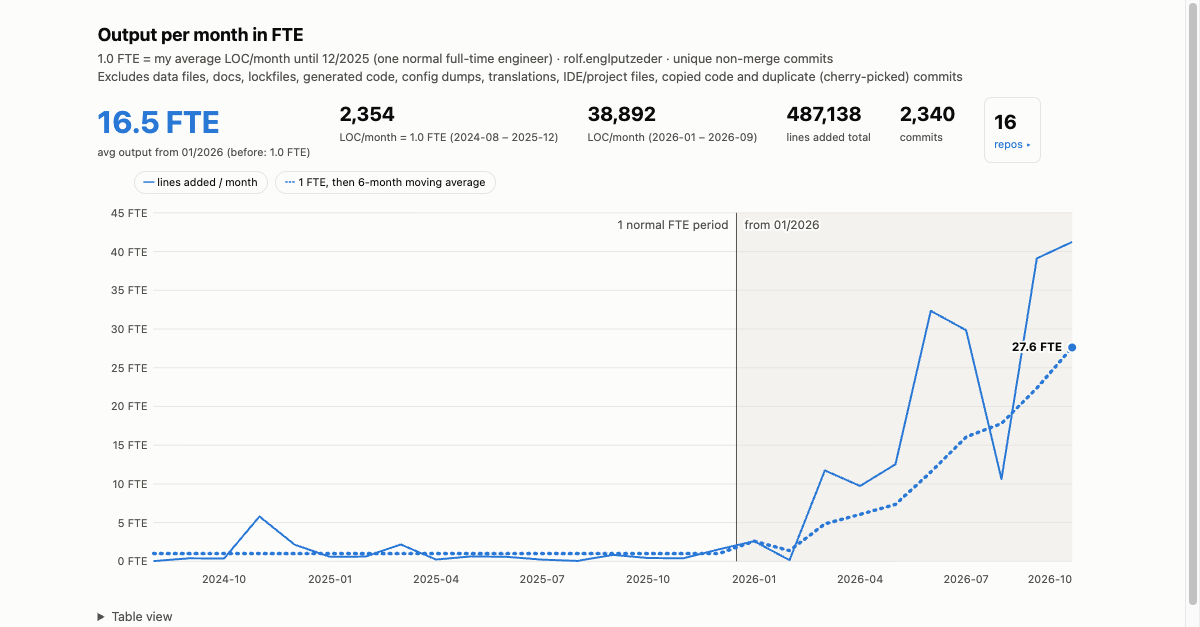
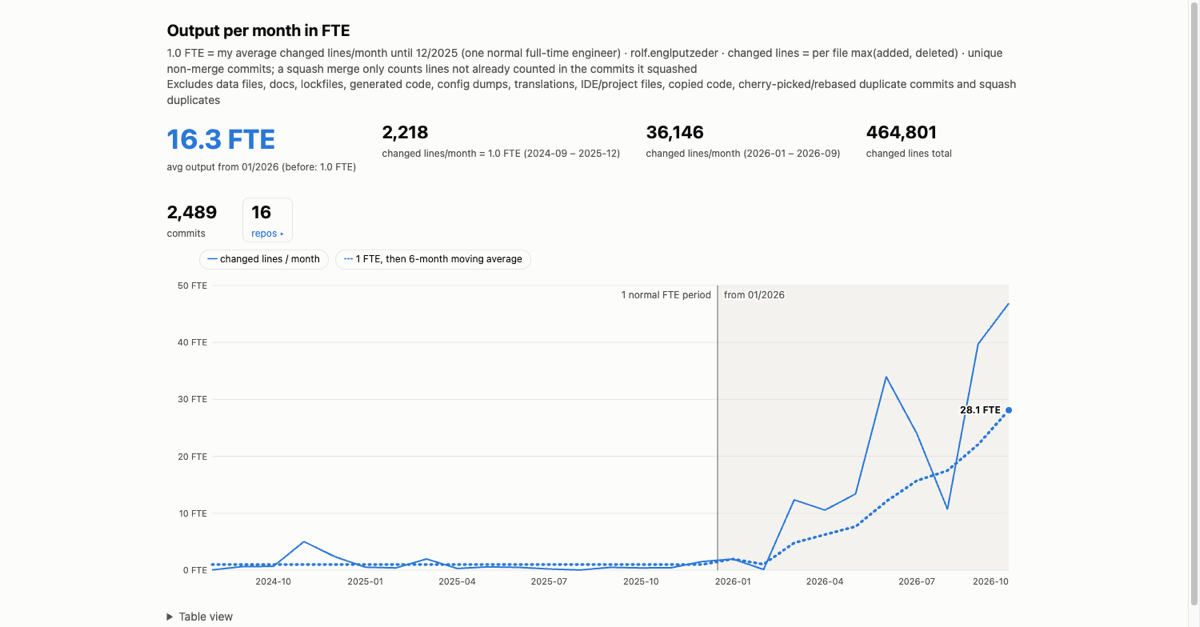
Fix squash/cherry-pick double counting, responsive layout
- squash merges only count lines not already counted in squashed commits
- cherry-pick dedup by exact author timestamp (same-day same-subject commits were dropped)
- baseline excludes partial first month
- mobile-friendly chart and layout; refreshed preview image

diff --git a/index.html b/index.html
@@ -3,17 +3,28 @@
 <style>
 :root{--surface:#fcfcfb;--ink:#0b0b0b;--ink2:#52514e;--grid:#e6e5e1;--band:#f3f2ef;--s1:#2a78d6;--tip:#fff}
 @media (prefers-color-scheme:dark){:root{--surface:#1a1a19;--ink:#f0efec;--ink2:#c3c2b7;--grid:#383835;--band:#232322;--s1:#3987e5;--tip:#262624}}
-body{margin:0;background:var(--surface);color:var(--ink);font:14px/1.4 -apple-system,system-ui,sans-serif}
+*{box-sizing:border-box}
+body{margin:0;background:var(--surface);color:var(--ink);font:14px/1.4 -apple-system,system-ui,sans-serif;-webkit-text-size-adjust:100%}
 main{max-width:1100px;margin:0 auto;padding:24px 16px}
 h1{font-size:20px;margin:0 0 4px}.sub{color:var(--ink2);margin:0 0 16px}
 .stats{display:flex;gap:32px;flex-wrap:wrap;margin-bottom:12px}.stats b{display:block;font-size:22px}.stats .hero b{font-size:34px;color:var(--s1)}.stats span{color:var(--ink2);font-size:12px}
 .wrap{position:relative}svg{width:100%;height:auto;display:block}
 .axis text{fill:var(--ink2);font-size:11px}.gl{stroke:var(--grid)}
 .lbl{fill:var(--ink);font-size:12px;paint-order:stroke;stroke:var(--surface);stroke-width:4px}
+#hit{touch-action:pan-y;cursor:crosshair}
 #tip{position:absolute;pointer-events:none;background:var(--tip);border:1px solid var(--grid);border-radius:6px;padding:6px 8px;font-size:12px;display:none;max-width:280px;box-shadow:0 2px 8px #0002}
 .legend{display:flex;gap:8px;flex-wrap:wrap;margin:4px 0 4px 40px}.legend button{font:inherit;font-size:12px;color:var(--ink);background:none;border:1px solid var(--grid);border-radius:999px;padding:3px 10px;cursor:pointer}.legend button span{color:var(--s1);font-weight:700}.legend button[aria-pressed=false]{opacity:.4;text-decoration:line-through}
-.stat{font:inherit;color:inherit;text-align:left;background:none;border:1px solid var(--grid);border-radius:8px;padding:2px 10px;margin:-3px 0;cursor:pointer}.stat:hover{border-color:var(--s1)}.stats .stat span{color:var(--s1)}.rt{border-collapse:collapse;font-size:13px}.rt td,.rt th{padding:3px 10px;text-align:right;border-bottom:1px solid var(--grid)}
-details{margin-top:16px;color:var(--ink2)}table{border-collapse:collapse;font-size:12px}td,th{padding:2px 10px;text-align:right}
+.stat{font:inherit;color:inherit;text-align:left;background:none;border:1px solid var(--grid);border-radius:8px;padding:2px 10px;margin:-3px 0;cursor:pointer}.stat:hover{border-color:var(--s1)}.stats .stat span{color:var(--s1)}
+.scroll{overflow-x:auto;-webkit-overflow-scrolling:touch}
+.rt{border-collapse:collapse;font-size:13px}.rt td,.rt th{padding:3px 10px;text-align:right;border-bottom:1px solid var(--grid);white-space:nowrap}.rt .bar{width:160px}
+details{margin-top:16px;color:var(--ink2)}summary{cursor:pointer;padding:4px 0}table{border-collapse:collapse;font-size:12px}td,th{padding:2px 10px;text-align:right;white-space:nowrap}
+@media (max-width:600px){
+main{padding:16px 16px 32px}h1{font-size:18px}.sub{font-size:12px}
+.stats{display:grid;grid-template-columns:1fr 1fr;gap:12px 16px}.stats .hero{grid-column:1/-1}.stats b{font-size:18px}.stats .hero b{font-size:30px}.stats .stat{margin:0;padding:6px 10px}
+.legend{margin:8px 0}.legend button{padding:6px 12px}
+.rt{font-size:12px}.rt td,.rt th{padding:4px 6px}.rt .bar{width:60px}
+td,th{padding:4px 6px}
+}
 </style><meta property="og:title" content="Output per month in FTE">
 <meta property="og:description" content="Since 01/2026 my LOC output increased significantly">
 <meta property="og:type" content="website">
@@ -24,44 +35,55 @@ details{margin-top:16px;color:var(--ink2)}table{border-collapse:collapse;font-si
 <meta name="twitter:card" content="summary_large_image">
 </head><body><main>
 <h1>Output per month in FTE</h1>
-<p class="sub">1.0 FTE = my average LOC/month until 12/2025 (one normal full-time engineer) · rolf.englputzeder · unique non-merge commits<br>Excludes data files, docs, lockfiles, generated code, config dumps, translations, IDE/project files, copied code and duplicate (cherry-picked) commits</p>
+<p class="sub">1.0 FTE = my average changed lines/month until 12/2025 (one normal full-time engineer) · rolf.englputzeder · changed lines = per file max(added, deleted) · unique non-merge commits; a squash merge only counts lines not already counted in the commits it squashed<br>Excludes data files, docs, lockfiles, generated code, config dumps, translations, IDE/project files, copied code, cherry-picked/rebased duplicate commits and squash duplicates</p>
 <div class="stats" id="stats"></div>
-<div class="legend" id="lg"><button data-s="sX" aria-pressed="true"><span>━</span> lines added / month</button><button data-s="sMA" aria-pressed="true"><span>┅</span> 1 FTE, then 6-month moving average</button></div>
-<div class="wrap"><svg id="c" viewBox="0 0 1000 400" role="img" aria-label="Monthly lines added as multiple of FTE baseline, before and after January 2026"></svg><div id="tip"></div></div>
-<div id="rp" hidden><h2 style="font-size:15px;margin:16px 0 6px">Repos</h2><table id="rt" class="rt"><tr><th style="text-align:left">Repo</th><th>Lines added</th><th></th><th>Commits</th><th>Active</th></tr></table></div>
-<details><summary>Table view</summary><table id="t"><tr><th>Month</th><th>Added</th><th>FTE</th><th>Trend FTE</th><th>Deleted</th><th>Commits</th><th>Repos</th></tr></table></details>
+<div class="legend" id="lg"><button data-s="sX" aria-pressed="true"><span>━</span> changed lines / month</button><button data-s="sMA" aria-pressed="true"><span>┅</span> 1 FTE, then 6-month moving average</button></div>
+<div class="wrap"><svg id="c" role="img" aria-label="Monthly changed lines as multiple of FTE baseline, before and after January 2026"></svg><div id="tip"></div></div>
+<div id="rp" hidden><h2 style="font-size:15px;margin:16px 0 6px">Repos</h2><div class="scroll"><table id="rt" class="rt"><tr><th style="text-align:left">Repo</th><th>Changed lines</th><th></th><th>Commits</th><th>Active</th></tr></table></div></div>
+<details><summary>Table view</summary><div class="scroll"><table id="t"><tr><th>Month</th><th>Changed</th><th>FTE</th><th>Trend FTE</th><th>Deleted</th><th>Commits</th><th>Repos</th></tr></table></div></details>
 </main><script>
-const D=[{"m":"2024-08","a":68,"d":277,"c":2,"r":["Repo A"]},{"m":"2024-09","a":907,"d":1618,"c":27,"r":["Repo A"]},{"m":"2024-10","a":866,"d":677,"c":19,"r":["Repo A"]},{"m":"2024-11","a":13635,"d":68922,"c":33,"r":["Repo A"]},{"m":"2024-12","a":5035,"d":5988,"c":30,"r":["Repo A"]},{"m":"2025-01","a":1344,"d":2745,"c":29,"r":["Repo A"]},{"m":"2025-02","a":1433,"d":857,"c":18,"r":["Repo A"]},{"m":"2025-03","a":5120,"d":2487,"c":66,"r":["Repo E","Repo A"]},{"m":"2025-04","a":544,"d":660,"c":34,"r":["Repo A"]},{"m":"2025-05","a":1520,"d":719,"c":27,"r":["Repo A"]},{"m":"2025-06","a":1369,"d":975,"c":14,"r":["Repo A"]},{"m":"2025-07","a":520,"d":425,"c":24,"r":["Repo A"]},{"m":"2025-08","a":133,"d":75,"c":8,"r":["Repo I","Repo A"]},{"m":"2025-09","a":1961,"d":1295,"c":31,"r":["Repo A"]},{"m":"2025-10","a":991,"d":574,"c":16,"r":["Repo I","Repo A"]},{"m":"2025-11","a":940,"d":330,"c":14,"r":["Repo I","Repo A"]},{"m":"2025-12","a":3639,"d":2670,"c":58,"r":["Repo I","Repo A"]},{"m":"2026-01","a":6117,"d":1871,"c":34,"r":["Repo I","Repo A"]},{"m":"2026-02","a":375,"d":181,"c":19,"r":["Repo I","Repo A"]},{"m":"2026-03","a":27619,"d":25799,"c":122,"r":["Repo B","Repo F","Repo E","Repo A","Repo D"]},{"m":"2026-04","a":22902,"d":3722,"c":93,"r":["Repo B","Repo K","Repo F","Repo E","Repo A","Repo D"]},{"m":"2026-05","a":29498,"d":4958,"c":202,"r":["Repo B","Repo K","Repo P","Repo J","Repo F","Repo E","Repo L","Repo A","Repo D"]},{"m":"2026-06","a":76155,"d":19403,"c":260,"r":["Repo B","Repo G","Repo K","Repo J","Repo M","Repo F","Repo E","Repo O","Repo L","Repo A","Repo D"]},{"m":"2026-07","a":70243,"d":11495,"c":209,"r":["Repo B","Repo G","Repo A","Repo D"]},{"m":"2026-08","a":25005,"d":3145,"c":113,"r":["Repo B","Repo A","Repo D"]},{"m":"2026-09","a":92111,"d":12343,"c":521,"r":["Repo B","Repo N","Repo C","Repo G","Repo M","Repo E","Repo A","Repo D"]},{"m":"2026-10","a":97088,"d":10141,"c":317,"r":["Repo B","Repo I","Repo C","Repo G","Repo H","Repo A"]}];
+const D=[{"m":"2024-08","a":85,"d":277,"c":2,"r":["Repo A"]},{"m":"2024-09","a":1388,"d":1647,"c":58,"r":["Repo A"]},{"m":"2024-10","a":1450,"d":959,"c":28,"r":["Repo A"]},{"m":"2024-11","a":11121,"d":56453,"c":39,"r":["Repo A"]},{"m":"2024-12","a":5282,"d":5994,"c":34,"r":["Repo A"]},{"m":"2025-01","a":1151,"d":1614,"c":29,"r":["Repo A"]},{"m":"2025-02","a":887,"d":486,"c":17,"r":["Repo A"]},{"m":"2025-03","a":4349,"d":2053,"c":72,"r":["Repo A","Repo E"]},{"m":"2025-04","a":660,"d":470,"c":39,"r":["Repo A"]},{"m":"2025-05","a":1278,"d":528,"c":30,"r":["Repo A"]},{"m":"2025-06","a":1099,"d":681,"c":16,"r":["Repo A"]},{"m":"2025-07","a":465,"d":294,"c":25,"r":["Repo A"]},{"m":"2025-08","a":69,"d":31,"c":8,"r":["Repo A","Repo I"]},{"m":"2025-09","a":1095,"d":700,"c":31,"r":["Repo A"]},{"m":"2025-10","a":880,"d":348,"c":16,"r":["Repo A","Repo I"]},{"m":"2025-11","a":960,"d":350,"c":16,"r":["Repo A","Repo I"]},{"m":"2025-12","a":3350,"d":2162,"c":71,"r":["Repo A","Repo I"]},{"m":"2026-01","a":4325,"d":1312,"c":35,"r":["Repo A","Repo I"]},{"m":"2026-02","a":234,"d":107,"c":22,"r":["Repo A","Repo I"]},{"m":"2026-03","a":27366,"d":25656,"c":126,"r":["Repo A","Repo B","Repo D","Repo E","Repo F"]},{"m":"2026-04","a":23397,"d":3704,"c":92,"r":["Repo A","Repo B","Repo D","Repo E","Repo F","Repo J"]},{"m":"2026-05","a":29684,"d":4816,"c":208,"r":["Repo A","Repo B","Repo D","Repo E","Repo F","Repo J","Repo K","Repo L","Repo P"]},{"m":"2026-06","a":75309,"d":18198,"c":260,"r":["Repo A","Repo B","Repo D","Repo E","Repo F","Repo G","Repo J","Repo K","Repo L","Repo M","Repo O"]},{"m":"2026-07","a":53196,"d":8917,"c":208,"r":["Repo A","Repo B","Repo D","Repo G"]},{"m":"2026-08","a":23735,"d":2894,"c":114,"r":["Repo A","Repo B","Repo D"]},{"m":"2026-09","a":88070,"d":11545,"c":520,"r":["Repo A","Repo B","Repo C","Repo D","Repo E","Repo G","Repo M","Repo N"]},{"m":"2026-10","a":103916,"d":10192,"c":373,"r":["Repo A","Repo B","Repo C","Repo D","Repo G","Repo H","Repo I"]}];
 const CUT='2026-01',fmt=n=>n.toLocaleString('en-US'),last=D.length-1,f1=v=>v.toFixed(1)+' FTE';
-const REPOS=[...new Set(D.flatMap(r=>r.r))].sort(),RS=[{"n":"Repo A","a":207087,"c":966,"first":"2024-08","last":"2026-10"},{"n":"Repo B","a":131378,"c":655,"first":"2026-03","last":"2026-10"},{"n":"Repo C","a":37476,"c":228,"first":"2026-09","last":"2026-10"},{"n":"Repo D","a":24766,"c":93,"first":"2026-03","last":"2026-09"},{"n":"Repo E","a":22385,"c":87,"first":"2025-03","last":"2026-09"},{"n":"Repo F","a":19139,"c":101,"first":"2026-03","last":"2026-06"},{"n":"Repo G","a":15978,"c":34,"first":"2026-06","last":"2026-10"},{"n":"Repo H","a":10745,"c":24,"first":"2026-10","last":"2026-10"},{"n":"Repo I","a":7112,"c":60,"first":"2025-08","last":"2026-10"},{"n":"Repo J","a":4057,"c":23,"first":"2026-05","last":"2026-06"},{"n":"Repo K","a":4024,"c":42,"first":"2026-04","last":"2026-06"},{"n":"Repo L","a":2535,"c":18,"first":"2026-05","last":"2026-06"},{"n":"Repo M","a":235,"c":3,"first":"2026-06","last":"2026-09"},{"n":"Repo N","a":144,"c":2,"first":"2026-09","last":"2026-09"},{"n":"Repo O","a":60,"c":1,"first":"2026-06","last":"2026-06"},{"n":"Repo P","a":17,"c":3,"first":"2026-05","last":"2026-05"}];
-const pre=D.filter(r=>r.m<CUT),post=D.slice(0,last).filter(r=>r.m>=CUT); // current month is partial -> not averaged
+const REPOS=[...new Set(D.flatMap(r=>r.r))].sort(),RS=[{"n":"Repo A","a":172965,"c":1071,"first":"2024-08","last":"2026-10"},{"n":"Repo B","a":139278,"c":678,"first":"2026-03","last":"2026-10"},{"n":"Repo C","a":41469,"c":230,"first":"2026-09","last":"2026-10"},{"n":"Repo D","a":23003,"c":95,"first":"2026-03","last":"2026-10"},{"n":"Repo E","a":22930,"c":87,"first":"2025-03","last":"2026-09"},{"n":"Repo F","a":19494,"c":102,"first":"2026-03","last":"2026-06"},{"n":"Repo G","a":14758,"c":43,"first":"2026-06","last":"2026-10"},{"n":"Repo H","a":12122,"c":28,"first":"2026-10","last":"2026-10"},{"n":"Repo I","a":7287,"c":61,"first":"2025-08","last":"2026-10"},{"n":"Repo J","a":4404,"c":43,"first":"2026-04","last":"2026-06"},{"n":"Repo K","a":4070,"c":24,"first":"2026-05","last":"2026-06"},{"n":"Repo L","a":2562,"c":18,"first":"2026-05","last":"2026-06"},{"n":"Repo M","a":236,"c":3,"first":"2026-06","last":"2026-09"},{"n":"Repo N","a":144,"c":2,"first":"2026-09","last":"2026-09"},{"n":"Repo O","a":60,"c":1,"first":"2026-06","last":"2026-06"},{"n":"Repo P","a":19,"c":3,"first":"2026-05","last":"2026-05"}];
+const pre=D.slice(1).filter(r=>r.m<CUT),post=D.slice(0,last).filter(r=>r.m>=CUT); // first and current month are partial -> not averaged
 const avg=a=>a.reduce((s,r)=>s+r.a,0)/a.length,BASE=avg(pre),POST=avg(post),FACT=POST/BASE;
 const X=D.map(r=>r.a/BASE),CI=D.findIndex(r=>r.m===CUT),MA=X.map((v,i)=>{if(i<CI)return 1;const w=X.slice(Math.max(CI,i-5),i+1);return w.reduce((a,b)=>a+b,0)/w.length});
-const tot=D.reduce((s,r)=>s+r.a,0),com=D.reduce((s,r)=>s+r.c,0),ci=D.findIndex(r=>r.m===CUT);
-document.getElementById('stats').innerHTML=[[f1(FACT),'avg output from 01/2026 (before: 1.0 FTE)','hero'],[fmt(Math.round(BASE)),'LOC/month = 1.0 FTE ('+pre[0].m+' – 2025-12)'],[fmt(Math.round(POST)),'LOC/month ('+CUT+' – '+post.at(-1).m+')'],[fmt(tot),'lines added total'],[fmt(com),'commits'],[REPOS.length,'repos ▸','btn']].map(([v,l,c])=>c==='btn'?'<button id="rb" class="stat" aria-expanded="false"><b>'+v+'</b><span>'+l+'</span></button>':'<div class="'+(c||'')+'"><b>'+v+'</b><span>'+l+'</span></div>').join('');
-const W=1000,H=400,m={l:56,r:16,t:16,b:32},iw=W-m.l-m.r,ih=H-m.t-m.b;
-const max=Math.ceil(Math.max(...X)/5)*5,x=i=>m.l+i*iw/last,y=v=>m.t+ih-v/max*ih,xc=(x(ci-1)+x(ci))/2;
+const tot=D.reduce((s,r)=>s+r.a,0),com=D.reduce((s,r)=>s+r.c,0),ci=CI;
+document.getElementById('stats').innerHTML=[[f1(FACT),'avg output from 01/2026 (before: 1.0 FTE)','hero'],[fmt(Math.round(BASE)),'changed lines/month = 1.0 FTE ('+pre[0].m+' – 2025-12)'],[fmt(Math.round(POST)),'changed lines/month ('+CUT+' – '+post.at(-1).m+')'],[fmt(tot),'changed lines total'],[fmt(com),'commits'],[REPOS.length,'repos ▸','btn']].map(([v,l,c])=>c==='btn'?'<button id="rb" class="stat" aria-expanded="false"><b>'+v+'</b><span>'+l+'</span></button>':'<div class="'+(c||'')+'"><b>'+v+'</b><span>'+l+'</span></div>').join('');
+const svg=document.getElementById('c'),tip=document.getElementById('tip');
+let W,H,m,iw,ih,x,y,xh,dot,hit,shown=-1;
+function draw(){ // drawn in real pixels so text stays readable on phones
+W=Math.max(300,svg.parentNode.clientWidth);const sm=W<600;H=sm?Math.round(Math.min(360,W*.8)):400;
+m={l:sm?46:56,r:sm?10:16,t:sm?30:16,b:28};iw=W-m.l-m.r;ih=H-m.t-m.b;
+const mx=Math.max(...X),st=Math.max(5,Math.ceil(mx/(sm?4:6)/5)*5),max=Math.ceil(mx/st)*st;x=i=>m.l+i*iw/last;y=v=>m.t+ih-v/max*ih;const xc=(x(ci-1)+x(ci))/2;
+svg.setAttribute('viewBox','0 0 '+W+' '+H);
 let s='<rect x="'+xc+'" y="'+m.t+'" width="'+(W-m.r-xc)+'" height="'+ih+'" fill="var(--band)"/><g class="axis">';
-for(let v=0;v<=max;v+=5){s+='<line class="gl" x1="'+m.l+'" x2="'+(W-m.r)+'" y1="'+y(v)+'" y2="'+y(v)+'"/><text x="'+(m.l-6)+'" y="'+(y(v)+4)+'" text-anchor="end">'+v+' FTE</text>'}
-D.forEach((r,i)=>{if(+r.m.slice(5)%3===1)s+='<text x="'+x(i)+'" y="'+(H-10)+'" text-anchor="'+(i===last?'end':'middle')+'">'+r.m+'</text>'});
+for(let v=0;v<=max;v+=st){s+='<line class="gl" x1="'+m.l+'" x2="'+(W-m.r)+'" y1="'+y(v)+'" y2="'+y(v)+'"/><text x="'+(m.l-6)+'" y="'+(y(v)+4)+'" text-anchor="end">'+v+' FTE</text>'}
+const ev=sm?6:3;D.forEach((r,i)=>{if((+r.m.slice(5)-1)%ev===0&&x(last)-x(i)>(sm?34:0)||i===last&&!sm)s+='<text x="'+x(i)+'" y="'+(H-10)+'" text-anchor="'+(i===last?'end':i===0?'start':'middle')+'">'+(sm?r.m.slice(5)+'/'+r.m.slice(2,4):r.m)+'</text>'});
 s+='</g><line x1="'+xc+'" x2="'+xc+'" y1="'+m.t+'" y2="'+(m.t+ih)+'" stroke="var(--ink2)"/>';
-s+='<text class="lbl" x="'+(xc-8)+'" y="'+(m.t+16)+'" text-anchor="end" style="fill:var(--ink2)">1 normal FTE period</text><text class="lbl" x="'+(xc+8)+'" y="'+(m.t+16)+'" style="fill:var(--ink2)">from 01/2026</text>';
-
+const ly=sm?m.t-10:m.t+16;
+s+='<text class="lbl" x="'+(xc-8)+'" y="'+ly+'" text-anchor="end" style="fill:var(--ink2)">'+(sm?'baseline':'1 normal FTE period')+'</text><text class="lbl" x="'+(xc+8)+'" y="'+ly+'" style="fill:var(--ink2)">from 01/2026</text>';
 const path=a=>a.map((v,i)=>(i?'L':'M')+x(i).toFixed(1)+','+y(v).toFixed(1)).join('');
-s+='<g id="sMA">'+'<path d="'+path(MA)+'" fill="none" stroke="var(--s1)" stroke-width="3.5" stroke-dasharray="2 5" stroke-linecap="round" stroke-linejoin="round"/>'+'<circle cx="'+x(last)+'" cy="'+y(MA[last])+'" r="5" fill="var(--s1)" stroke="var(--surface)" stroke-width="2"/><text class="lbl" data-s="sMA" x="'+(x(last)-10)+'" y="'+(y(MA[last])+4)+'" text-anchor="end" style="font-weight:700">'+f1(MA[last])+'</text>'+'</g>';
+s+='<g id="sMA">'+'<path d="'+path(MA)+'" fill="none" stroke="var(--s1)" stroke-width="'+(sm?3:3.5)+'" stroke-dasharray="2 5" stroke-linecap="round" stroke-linejoin="round"/>'+'<circle cx="'+x(last)+'" cy="'+y(MA[last])+'" r="5" fill="var(--s1)" stroke="var(--surface)" stroke-width="2"/><text class="lbl" data-s="sMA" x="'+(x(last)-10)+'" y="'+(y(MA[last])+4)+'" text-anchor="end" style="font-weight:700">'+f1(MA[last])+'</text>'+'</g>';
 s+='<g id="sX">'+'<path d="'+path(X)+'" fill="none" stroke="var(--s1)" stroke-width="2" stroke-linejoin="round"/>'+'</g>';
-
 s+='<line id="xh" y1="'+m.t+'" y2="'+(m.t+ih)+'" style="display:none;stroke:var(--ink2)"/><circle id="dot" r="4" fill="var(--s1)" stroke="var(--surface)" stroke-width="2" style="display:none"/><rect x="'+m.l+'" y="'+m.t+'" width="'+iw+'" height="'+ih+'" fill="transparent" id="hit"/>';
-const svg=document.getElementById('c');svg.innerHTML=s;
-svg.querySelectorAll('text.lbl').forEach(t=>svg.insertBefore(t,document.getElementById('xh'))); // labels above lines
-const tip=document.getElementById('tip'),xh=document.getElementById('xh'),dot=document.getElementById('dot'),hit=document.getElementById('hit');
-hit.addEventListener('mousemove',e=>{const b=svg.getBoundingClientRect(),px=(e.clientX-b.left)*W/b.width,i=Math.max(0,Math.min(last,Math.round((px-m.l)/iw*last))),r=D[i];
+svg.innerHTML=s;xh=document.getElementById('xh');dot=document.getElementById('dot');hit=document.getElementById('hit');
+svg.querySelectorAll('text.lbl').forEach(t=>svg.insertBefore(t,xh)); // labels above lines
+document.querySelectorAll('#lg button').forEach(b=>toggle(b,b.getAttribute('aria-pressed')==='true'));
+hit.addEventListener('pointermove',show);hit.addEventListener('pointerdown',show);
+hit.addEventListener('pointerleave',e=>{if(e.pointerType==='mouse')hide()});
+if(shown>=0)show(null,shown)}
+function show(e,j){const b=svg.getBoundingClientRect(),i=j??Math.max(0,Math.min(last,Math.round(((e.clientX-b.left)*W/b.width-m.l)/iw*last))),r=D[i];shown=i;
 xh.setAttribute('x1',x(i));xh.setAttribute('x2',x(i));xh.style.display='';dot.setAttribute('cx',x(i));dot.setAttribute('cy',y(X[i]));dot.style.display='';
-tip.innerHTML='<b>'+r.m+(i===last?' (so far)':'')+' · '+f1(X[i])+'</b><br>+'+fmt(r.a)+' / −'+fmt(r.d)+' LOC<br>trend '+f1(MA[i])+'<br>'+r.c+' commits · '+r.r.length+' repo'+(r.r.length==1?'':'s')+(r.r.length?'<br><span style="color:var(--ink2)">'+r.r.join(', ')+'</span>':'');tip.style.display='block';
-const sx=x(i)*b.width/W;tip.style.left=(sx>b.width*0.65?sx-tip.offsetWidth-12:sx+12)+'px';tip.style.top='24px'});
-hit.addEventListener('mouseleave',()=>{tip.style.display=xh.style.display=dot.style.display='none'});
-document.querySelectorAll('#lg button').forEach(b=>b.onclick=()=>{const on=b.getAttribute('aria-pressed')!=='true';b.setAttribute('aria-pressed',on);[document.getElementById(b.dataset.s),...svg.querySelectorAll('[data-s='+b.dataset.s+']')].forEach(e=>e.style.display=on?'':'none')});
-const ra=Math.max(...RS.map(r=>r.a));document.getElementById('rt').insertAdjacentHTML('beforeend',RS.map(r=>'<tr><td style="text-align:left">'+r.n+'</td><td>'+fmt(r.a)+'</td><td style="width:160px"><div style="height:8px;border-radius:0 4px 4px 0;background:var(--s1);width:'+Math.max(1,r.a/ra*100)+'%"></div></td><td>'+r.c+'</td><td>'+(r.first===r.last?r.first:r.first+' – '+r.last)+'</td></tr>').join(''));
+tip.innerHTML='<b>'+r.m+(i===last?' (so far)':'')+' · '+f1(X[i])+'</b><br>'+fmt(r.a)+' changed lines (−'+fmt(r.d)+' deleted)<br>trend '+f1(MA[i])+'<br>'+r.c+' commits · '+r.r.length+' repo'+(r.r.length==1?'':'s')+(r.r.length?'<br><span style="color:var(--ink2)">'+r.r.join(', ')+'</span>':'');tip.style.display='block';
+tip.style.maxWidth=Math.min(280,b.width-16)+'px';const sx=x(i)*b.width/W,tw=tip.offsetWidth;let l=sx>b.width*.6?sx-tw-12:sx+12;tip.style.left=Math.max(0,Math.min(b.width-tw,l))+'px';tip.style.top=(W<600?m.t+8:24)+'px'}
+function hide(){shown=-1;tip.style.display=xh.style.display=dot.style.display='none'}
+function toggle(b,on){b.setAttribute('aria-pressed',on);[document.getElementById(b.dataset.s),...svg.querySelectorAll('[data-s='+b.dataset.s+']')].forEach(e=>e.style.display=on?'':'none')}
+document.querySelectorAll('#lg button').forEach(b=>b.onclick=()=>toggle(b,b.getAttribute('aria-pressed')!=='true'));
+document.addEventListener('pointerdown',e=>{if(e.target!==hit)hide()});
+let rz;new ResizeObserver(()=>{cancelAnimationFrame(rz);rz=requestAnimationFrame(()=>{if(Math.max(300,svg.parentNode.clientWidth)!==W)draw()})}).observe(svg.parentNode);
+draw();
+const ra=Math.max(...RS.map(r=>r.a));document.getElementById('rt').insertAdjacentHTML('beforeend',RS.map(r=>'<tr><td style="text-align:left">'+r.n+'</td><td>'+fmt(r.a)+'</td><td class="bar"><div style="height:8px;border-radius:0 4px 4px 0;background:var(--s1);width:'+Math.max(1,r.a/ra*100)+'%"></div></td><td>'+r.c+'</td><td>'+(r.first===r.last?r.first:r.first+' – '+r.last)+'</td></tr>').join(''));
 const rb=document.getElementById('rb'),rp=document.getElementById('rp');rb.onclick=()=>{const o=rp.hidden;rp.hidden=!o;rb.setAttribute('aria-expanded',o);rb.querySelector('span').textContent='repos '+(o?'▾':'▸');if(o)rp.scrollIntoView({behavior:'smooth',block:'nearest'})};
 document.getElementById('t').insertAdjacentHTML('beforeend',D.map((r,i)=>'<tr><td>'+r.m+'</td><td>'+fmt(r.a)+'</td><td>'+f1(X[i])+'</td><td>'+f1(MA[i])+'</td><td>'+fmt(r.d)+'</td><td>'+r.c+'</td><td>'+r.r.length+'</td></tr>').join(''));
 </script></body></html>
